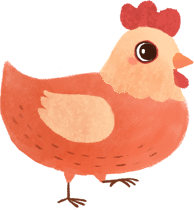
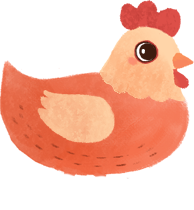
eighth commit

Changed region(s): [[0.4948, 0.8286, 0.7113, 0.9143], [0.2784, 0.8286, 0.4639, 1.0]]

diff --git a/css/index.css b/css/index.css
@@ -105,14 +105,40 @@ img{
     background-position: 0px 0px;
     background-size: 100% 100%;
 }
-.page01 img:nth-child(2){
+.chicken{
     width: 4.3rem;
     height: 4.8rem;
     position: absolute;
+    background-image: url(../images/chicken1.png);
+    background-size: 4.3rem 4.8rem;
     top:50%;
     right:50%;
     margin: -2.25rem -2.3rem;
 }
+.run_chicken{
+    -webkit-animation: changeImg4 1s linear infinite;
+}
+@-webkit-keyframes changeImg4 {
+    0% {
+        background-image: url(../images/chicken1.png);
+    }
+    30% {
+        background-image: url(../images/chicken2.png);
+    }
+    35% {
+        background-image: url(../images/chicken1.png);
+    }
+    65% {
+        background-image: url(../images/chicken2.png);
+    }
+    70% {
+        background-image: url(../images/chicken1.png);
+    }
+    100% {
+        background-image: url(../images/chicken2.png);
+    }
+}
+
 
 /*.page01 img:nth-child(2){*/
     /*width: 10.2rem;*/
@@ -418,7 +444,7 @@ img{
     height: 8.5rem;
     position: absolute;
     left:3.3rem;
-    bottom:10.6rem;
+    top:33%;
     z-index: 5;
 
 }

diff --git a/js/index.js b/js/index.js
@@ -44,7 +44,9 @@ var the_images = [
     "images/foxLeft03.png",
     "images/foxLeft04.png",
     "images/foxLeft05.png",
-    "tui.png"
+    "tui.png",
+    "jiqiantui.png",
+    "jihoutui.png"
 ];
 jQuery.imgpreload(the_images, {
     each: function () {
@@ -69,6 +71,7 @@ function run() {
     audio1.src = "audio/run.mp3";
     audio1.play()
     $('.run').hide();
+    $('.chicken').addClass('run_chicken');
     $('.chicken').animate({right:'-60px',top:'30px'},2000,function () {
         $('.fox').animate({left:'500px',bottom:'800px'},3000,function () {
             $('.BtnLeft').show();
@@ -98,6 +101,7 @@ function toHome() {
     setTimeout(function () {
         $(".chicken").css({"top":"50%","right":"50%"})
         $(".fox").css({"left":"-1.2rem","bottom":"4rem"})
+        $('.chicken').removeClass('run_chicken');
     },1000)
     document.getElementsByClassName('bigbox')[0].style.marginTop = -aTop / (aWidth / 16) + "rem";
 }

diff --git a/index.html b/index.html
@@ -48,7 +48,7 @@
             <ul>
                 <li>
                     <span class="fox"><i></i></span>
-                    <img src="images/chicken.png" alt="" class="chicken">
+                    <span class="chicken"><i></i></span>
                     <img src="images/BtnLeft.png" alt="" class="BtnLeft" onclick="toHome()">
                     <img src="images/BtnRight.png" alt="" class="BtnRight" onclick="toP2()">
                     <img src="images/run.png" alt="" onclick="run()" class="run">
